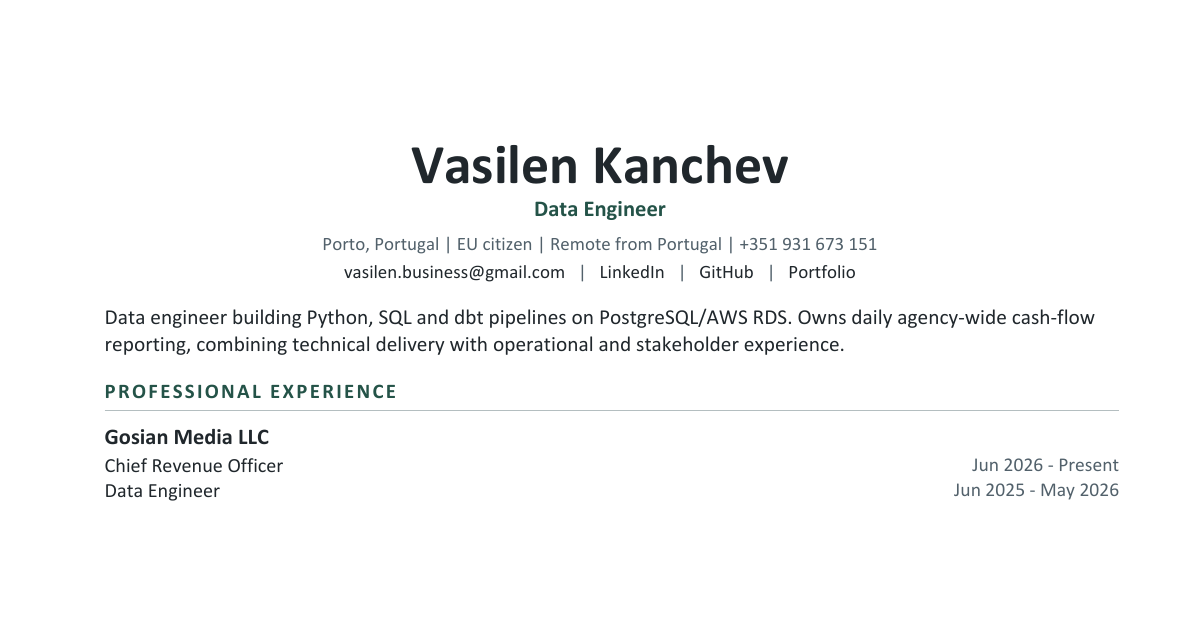
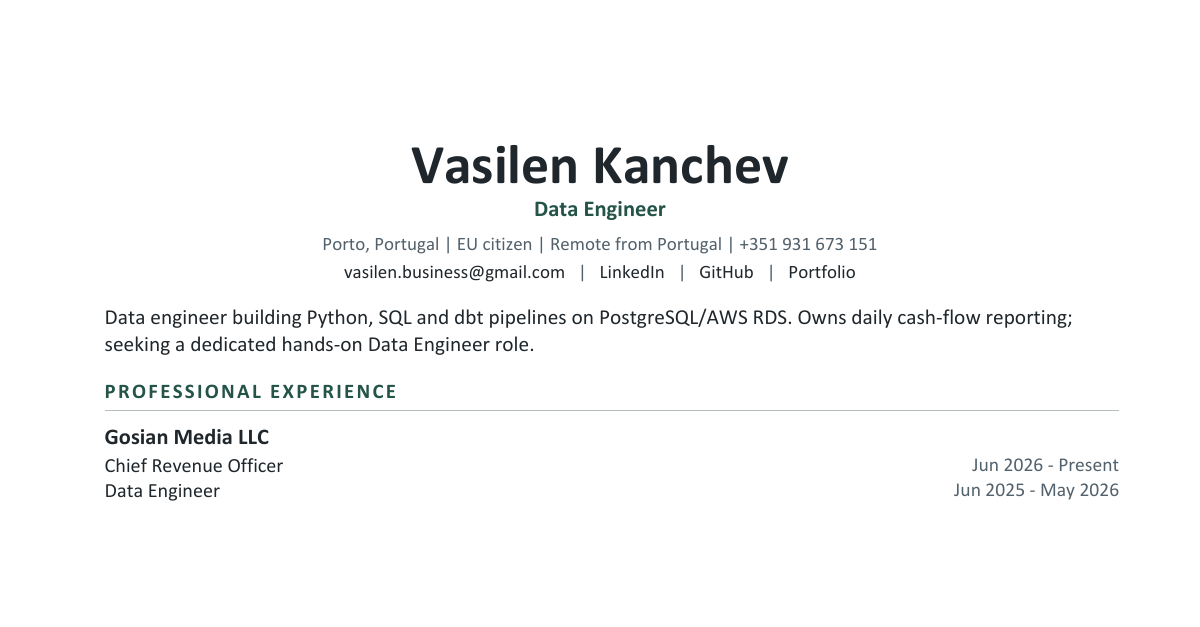
Focus CV variants and portfolio on engineering evidence (#13)
* Focus flagship stories and differentiate engineering CVs

* Support role-specific engineering project copy in CVs

* Refresh CV social preview for engineering focus

* Add concise NYC Taxi pipeline evidence page

Changed region(s): [[0.0925, 0.5152, 0.7092, 0.5758], [0.74, 0.4848, 0.925, 0.5152]]

diff --git a/index.html b/index.html
@@ -187,16 +187,16 @@ footer.foot{display:flex;justify-content:space-between;padding-block:24px;color:
 </div>
 
 <section id="work"><div class="wrap">
-<div class="head"><h2>Engineering you can inspect</h2><p class="lede">Three selected projects covering reliable pipelines, financial decisions, customer prediction and a scheduled data product. Each repository explains how to run it, what is tested and where the guarantees end.</p></div>
-<article class="proj" id="project-finance" data-cat="an de ml" data-selected><div><span class="proof">01 / Finance reconciliation &amp; customer prediction</span><h3>E-Commerce Finance Mart</h3><span class="kind">SQL, Excel and historical customer modeling</span></div>
-<div><p>1.07 million public invoice lines modeled into a star schema with 14 blocking checks and SQL-to-Excel reconciliation. Point-in-time customer snapshots now support 90-day repeat-purchase prediction: ROC-AUC 0.748 and 0.762 on two future test windows. The learned spend model lost to a simple baseline, which was retained. Full predictions, calibration diagnostics and batch-scoring evidence are published; no retention uplift or lifetime-profit claim is made.</p><span class="stack">SQL · DuckDB · Excel · scikit-learn · Customer cohorts</span></div>
-<div class="gos"><a class="go" href="/labs/management/">Management brief<span aria-hidden="true"> &#8599;</span></a><a class="go" href="/labs/customer-value/">Customer prediction report<span aria-hidden="true"> &#8599;</span></a><a class="go" href="https://vasilendata.github.io/ecommerce-finance-mart/explorer/" target="_blank" rel="noopener">Finance explorer<span aria-hidden="true"> &#8599;</span></a><a class="go" href="https://github.com/VasilenData/ecommerce-finance-mart" target="_blank" rel="noopener">Inspect the code<span aria-hidden="true"> &#8599;</span></a></div></article>
-<article class="proj" id="project-taxi" data-cat="de an ml" data-selected><div><span class="proof">02 / Reliable pipelines &amp; demand forecasting</span><h3>NYC Taxi Data Platform</h3><span class="kind">Local / Docker / CI / historical forecasting</span></div>
-<div><p>A Dagster/dbt/DuckDB pipeline with atomic mart publication and failure tests that preserve the last validated release. A separate daily pickup forecasting study reduced MAE by 11.3% against a weekly seasonal baseline across 16,043 held-out zone-days. Predictions, source checksums, uncertainty and a clearly labelled capacity simulation are published. The historical 31.6M-trip pipeline benchmark is documented separately.</p><span class="stack">Dagster · dbt · DuckDB · scikit-learn · Temporal backtesting</span></div>
-<div class="gos"><a class="go" href="/labs/forecast/">Forecast report<span aria-hidden="true"> &#8599;</span></a><a class="go" href="https://github.com/VasilenData/nyc-taxi-data-platform" target="_blank" rel="noopener">Inspect the pipeline<span aria-hidden="true"> &#8599;</span></a></div></article>
-<article class="proj" id="project-hn" data-cat="de an" data-selected><div><span class="proof">03 / Scheduled delivery &amp; data quality</span><h3>HN Pulse</h3><span class="kind">Live dashboard / GitHub Actions</span></div>
-<div><p>A Python/dbt/DuckDB pipeline from the Hacker News API to a live dashboard. GitHub Actions schedules runs every three hours; 27 dbt tests gate publication. Bounded API retries handle transient failures, and a separate hourly workflow records published-data freshness. Airflow demonstrates local orchestration.</p><span class="stack">Python · dbt · DuckDB · GitHub Actions · Airflow (local)</span></div>
-<div class="gos"><a class="go" href="https://vasilendata.github.io/hn-pulse/" target="_blank" rel="noopener">View live dashboard<span aria-hidden="true"> &#8599;</span></a><a class="go" href="https://github.com/VasilenData/hn-pulse" target="_blank" rel="noopener">Inspect the code<span aria-hidden="true"> &#8599;</span></a></div></article>
+<div class="head"><h2>Engineering you can inspect</h2><p class="lede">Three selected projects with a clear problem, an inspectable result and tested engineering. Open the result, then follow the decisions and failure checks in the code.</p></div>
+<article class="proj" id="project-finance" data-cat="de an" data-selected><div><span class="proof">01 / Finance definitions and reconciled releases</span><h3>E-Commerce Finance Mart</h3><span class="kind">SQL, Excel and historical public data</span></div>
+<div><p>Public retail invoices mix sales, returns, fees and duplicate entries. Built a SQL/DuckDB mart with explicit revenue definitions, quarantine and reconciliation across 1.07 million invoice lines. A validated release generates the Excel workbook, explorer and management brief from one frozen input, with 14 blocking checks and 124 workbook-to-SQL comparisons. Historical public data; no commercial impact is claimed.</p><span class="stack">Python · SQL · DuckDB · Excel · Data reconciliation</span></div>
+<div class="gos"><a class="go" href="https://vasilendata.github.io/ecommerce-finance-mart/explorer/" target="_blank" rel="noopener">View the result<span aria-hidden="true"> &#8599;</span></a><a class="go" href="https://github.com/VasilenData/ecommerce-finance-mart" target="_blank" rel="noopener">Inspect the engineering<span aria-hidden="true"> &#8599;</span></a></div></article>
+<article class="proj" id="project-taxi" data-cat="de an" data-selected><div><span class="proof">02 / Recovery and validated publication</span><h3>NYC Taxi Data Platform</h3><span class="kind">Local / Docker / CI</span></div>
+<div><p>Bad monthly files and failed transformations can corrupt downstream reports. Built a Dagster/dbt/DuckDB pipeline with auditable quarantine, source fingerprints and a validated candidate release. Eight consumer tables and their version metadata publish in one transaction; failure-injection tests preserve the previous valid version. Runs locally, in Docker and in CI on public TLC data; the recorded full-data reconciliation predates the current publisher.</p><span class="stack">Python · SQL · Dagster · dbt · DuckDB · Docker</span></div>
+<div class="gos"><a class="go" href="/projects/nyc-taxi/">View the result<span aria-hidden="true"> &#8599;</span></a><a class="go" href="https://github.com/VasilenData/nyc-taxi-data-platform#evidence-to-inspect" target="_blank" rel="noopener">Inspect the engineering<span aria-hidden="true"> &#8599;</span></a></div></article>
+<article class="proj" id="project-hn" data-cat="de an" data-selected><div><span class="proof">03 / Scheduled delivery and freshness</span><h3>HN Pulse</h3><span class="kind">Small operated public data product</span></div>
+<div><p>A scheduled dashboard is only useful while its data remains complete and fresh. Built a Python/dbt pipeline that snapshots the Hacker News API, enforces six model contracts and gates publication with 27 data tests. Failed runs preserve the last complete export; the browser and a separate workflow check freshness. Operated as a small public data product on GitHub Actions and Pages.</p><span class="stack">Python · dbt · DuckDB · GitHub Actions · GitHub Pages</span></div>
+<div class="gos"><a class="go" href="https://vasilendata.github.io/hn-pulse/" target="_blank" rel="noopener">View the result<span aria-hidden="true"> &#8599;</span></a><a class="go" href="https://github.com/VasilenData/hn-pulse" target="_blank" rel="noopener">Inspect the engineering<span aria-hidden="true"> &#8599;</span></a></div></article>
 <p class="alt"><a href="./labs/">Explore additional project evidence</a></p>
 </div></section>
 

diff --git a/projects/nyc-taxi/index.html b/projects/nyc-taxi/index.html
@@ -1,0 +1,65 @@
+<!doctype html>
+<html lang="en">
+<head>
+<meta charset="utf-8">
+<meta name="viewport" content="width=device-width,initial-scale=1">
+<meta name="theme-color" content="#111315">
+<meta name="description" content="Inspect the NYC Taxi pipeline: historical row reconciliation, tested rollback and atomic publication of validated consumer tables.">
+<link rel="canonical" href="https://vasilendata.github.io/projects/nyc-taxi/">
+<title>NYC Taxi: validated pipeline results | Vasilen Kanchev</title>
+<link rel="stylesheet" href="../../labs/lab.css">
+<style>
+.skip{position:absolute;left:16px;top:-80px;background:var(--surface);padding:10px 16px;z-index:2}.skip:focus{top:12px}
+.flow{display:grid;grid-template-columns:repeat(4,minmax(0,1fr));gap:14px;padding:0;list-style:none;margin:30px 0}.flow li{margin:0;padding:16px;border-top:2px solid var(--mint);background:var(--surface);font-size:.9rem}.flow strong{display:block;color:var(--mint)}
+.equation{padding:16px 20px;border:1px solid var(--line);border-radius:8px;font-size:clamp(.85rem,2vw,1.05rem)}
+.proof-list{padding-left:22px;max-width:900px}.proof-list li{margin:18px 0}.stats .stat{font-size:clamp(1.5rem,3vw,2rem)}
+@media(max-width:800px){.flow{grid-template-columns:repeat(2,minmax(0,1fr))}}@media(max-width:420px){.flow{grid-template-columns:1fr}}
+</style>
+</head>
+<body>
+<a class="skip" href="#main">Skip to content</a>
+<main id="main">
+<nav aria-label="Main"><a href="../../#work">Selected projects</a><a href="../../labs/">More evidence</a><a href="https://github.com/VasilenData/nyc-taxi-data-platform#evidence-to-inspect">Inspect the engineering</a></nav>
+<header>
+<p class="eyebrow">NYC Taxi / Data engineering</p>
+<h1>Publish only validated data.</h1>
+<p class="lede">Bad monthly files and failed transformations must not replace valid reports. This pipeline keeps rejected records auditable and separates candidate work from the tables consumers read.</p>
+<p class="muted">Python · SQL · Dagster · dbt · DuckDB · Docker</p>
+</header>
+<ol class="flow" aria-label="Pipeline stages">
+<li><strong>01 / Ingest</strong>Monthly files and source fingerprints</li>
+<li><strong>02 / Classify</strong>Valid trips or a rejection reason</li>
+<li><strong>03 / Validate</strong>Candidate tables and reconciliation</li>
+<li><strong>04 / Publish</strong>One transaction, one consumer version</li>
+</ol>
+<section aria-labelledby="reconciliation">
+<h2 id="reconciliation">Recorded row reconciliation</h2>
+<p>Full January–October 2023 TLC files, recorded on <strong>8 November 2026</strong>. This historical run predates the current staged publisher.</p>
+<div class="stats">
+<div class="card"><span class="stat">31,593,944</span><p>Input records</p></div>
+<div class="card"><span class="stat">30,694,510</span><p>Valid fact records</p></div>
+<div class="card"><span class="stat">899,434</span><p>Quarantined with a reason</p></div>
+</div>
+<p class="equation"><code>31,593,944 = 30,694,510 + 899,434</code></p>
+<p>Counts reconcile across input, raw, valid, quarantine and fact layers. Rejected records remain inspectable instead of silently disappearing.</p>
+<div class="filelinks"><a href="https://github.com/VasilenData/nyc-taxi-data-platform/blob/main/measurements/full-2026-11-08.json">Measurement and input hashes</a><a href="https://github.com/VasilenData/nyc-taxi-data-platform/blob/main/measurements/full-2026-11-08.log">Recorded run log</a><a href="https://github.com/VasilenData/nyc-taxi-data-platform/blob/main/docs/BENCHMARKS.md">Measurement method</a></div>
+</section>
+<section aria-labelledby="recovery">
+<h2 id="recovery">What the failure tests prove</h2>
+<p>The current publisher validates a candidate, then replaces eight consumer tables and their version metadata in one DuckDB transaction.</p>
+<ul class="proof-list">
+<li><strong>Invalid candidate:</strong> mismatched counts or mart totals are refused; the previous consumer relations remain unchanged. <a href="https://github.com/VasilenData/nyc-taxi-data-platform/blob/main/tests/test_publication.py#L70">Validation test</a></li>
+<li><strong>Interrupted copy:</strong> injected exceptions during copying or before commit preserve every previous consumer relation. <a href="https://github.com/VasilenData/nyc-taxi-data-platform/blob/main/tests/test_publication.py#L37">Rollback test</a></li>
+<li><strong>Abrupt process exit:</strong> reopening the database finds the previous release intact; a subsequent valid publication succeeds. <a href="https://github.com/VasilenData/nyc-taxi-data-platform/blob/main/tests/test_publication.py#L88">Crash-and-recovery test</a></li>
+</ul>
+<p class="scope">These are controlled tests with generated candidates and sample integration data. The system runs locally, in Docker and in CI. It is a single-writer warehouse; full-data publication overhead has not been remeasured, and no live cloud mart is claimed.</p>
+<div class="filelinks"><a href="https://github.com/VasilenData/nyc-taxi-data-platform/blob/main/taxi_platform/publication.py">Publication implementation</a><a href="https://github.com/VasilenData/nyc-taxi-data-platform/blob/main/tests/test_pipeline.py">Pipeline integration checks</a><a href="https://github.com/VasilenData/nyc-taxi-data-platform/actions/workflows/ci.yml">Current CI runs</a></div>
+</section>
+<section aria-labelledby="further">
+<h2 id="further">Separate modeling extension</h2>
+<p><a href="../../labs/forecast/">Explore the historical pickup forecast</a>. Its prediction results and hypothetical capacity scenario are separate from the pipeline evidence above.</p>
+</section>
+<footer>Vasilen Kanchev · Public-data portfolio project, built and reviewed with AI assistance.</footer>
+</main>
+</body>
+</html>

diff --git a/p/cv.html b/p/cv.html
@@ -3,7 +3,7 @@
 <meta name="description" content="One-page Data Engineer CV: Python, SQL, dbt and PostgreSQL on AWS RDS. 30+ spreadsheets migrated, an estimated 10+ hours saved weekly, and selected NYC taxi, finance and live API reporting projects.">
 <meta property="og:type" content="article"><meta property="og:title" content="Vasilen Kanchev - Data Engineer CV">
 <meta property="og:description" content="One-page Data Engineer CV: Python, SQL, dbt and PostgreSQL on AWS RDS. 30+ spreadsheets migrated, an estimated 10+ hours saved weekly, and selected NYC taxi, finance and live API reporting projects.">
-<meta property="og:image" content="https://vasilendata.github.io/p/cv.png?v=6">
+<meta property="og:image" content="https://vasilendata.github.io/p/cv.png?v=7">
 <meta property="og:image:width" content="1200"><meta property="og:image:height" content="627">
 <meta property="og:url" content="https://vasilendata.github.io/p/cv.html">
 <meta name="twitter:card" content="summary_large_image">

diff --git a/tools/build_cv.py b/tools/build_cv.py
@@ -57,6 +57,14 @@ class Section(Flowable):
         self.canv.line(0, 6, self.width, 6)
 
 
+def project_text(data, variant, project_key):
+    """Use optional role-specific copy, falling back to shared project text."""
+    text = variant.get('project_texts', {}).get(project_key, data['projects'][project_key]['text'])
+    if not isinstance(text, str) or not text.strip():
+        raise ValueError(f'{project_key}: project text must be a non-empty string')
+    return text
+
+
 def build(source, output_dir, font_dir=None):
     data = json.loads(source.read_text(encoding='utf-8'))
     regular, bold, italic = register_fonts(font_dir)
@@ -103,6 +111,15 @@ def build(source, output_dir, font_dir=None):
     output_dir.mkdir(parents=True, exist_ok=True)
     results = []
     for key, variant in data['variants'].items():
+        selected = variant['projects']
+        if len(selected) != 3 or len(set(selected)) != 3:
+            raise ValueError('Each CV must feature three distinct projects')
+        if not isinstance(variant.get('project_texts', {}), dict):
+            raise ValueError('project_texts must map selected project keys to copy')
+        if set(variant.get('project_texts', {})) - set(selected):
+            raise ValueError('project_texts contains an unselected project')
+        selected_copy = {project_key: project_text(data, variant, project_key)
+                         for project_key in selected}
         story = [p(data['name'], 'name'), p(variant['headline'], 'headline'),
                  p(data['contact'], 'contact')]
         contacts = [(data['email'], 'mailto:' + data['email']), *data['links']]
@@ -132,7 +149,7 @@ def build(source, output_dir, font_dir=None):
             title = f'<a href="{escape(project["url"])}" color="#20272C">{escape(project["name"])}</a>'
             block = [Spacer(1, 6)] if idx else []
             block.extend([pair(title, project['stack'], 'project', 'stack', right_width=238),
-                          p(project['text'])])
+                          p(selected_copy[project_key])])
             story.append(KeepTogether(block))
 
         story.append(Section('Technical skills', bold))
@@ -155,6 +172,10 @@ def build(source, output_dir, font_dir=None):
         if len(reader.pages) != 1:
             raise ValueError(f'{output.name}: {len(reader.pages)} pages; edit copy/spacing, not body size')
         text = reader.pages[0].extract_text()
+        normalized_text = ' '.join(text.split())
+        for project_key, copy in selected_copy.items():
+            if ' '.join(copy.split()) not in normalized_text:
+                raise ValueError(f'Missing role-specific project text: {project_key}')
         for item in (data['name'], '30+', '10+', '15+', '40+', 'Expected 2027'):
             if item not in text:
                 raise ValueError(f'Missing extractable fact: {item}')
